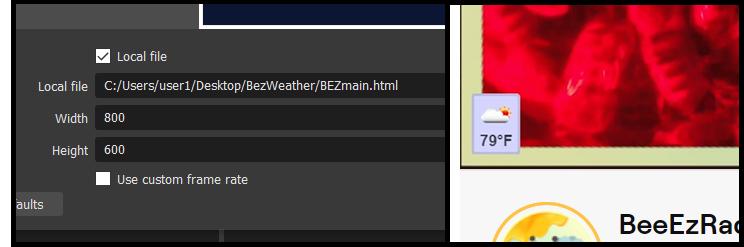
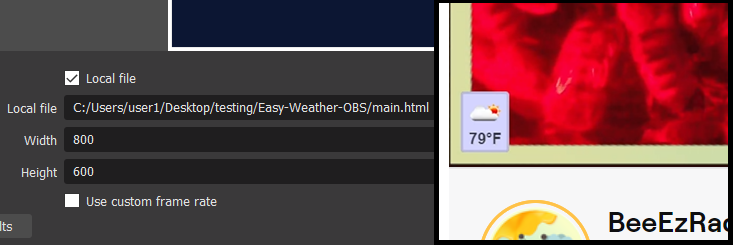
updated readme pics

diff --git a/README.md b/README.md
@@ -39,13 +39,16 @@ Download the ZIP for this app; click the Green button "<>Code" -> "Download Zip"
 
 Once you have your URL working; open "weather.js" in your code editor- then add your working weather URL to the code, pictured below - then Save <br>
 
+![2pic](./READMEpics/changeURL.png)
+
+
 if you want to LENGTHEN the timer; you can do so, but do not go LESS THAN "3*60000"! - then Save <br>
 
 Now, in the the folder, "Easy-Weather-OBS" double click the "main.html" file - it should open your browers, displaying the picture below. <br>
 
 Wait 3 minutes, and the App should be begin working...if you open your browser's Dev Tools, view the Console; and you should see these calls coming in every 3 minutes.
 
-![2pic](./READMEpics/initialResult.png)
+![3pic](./READMEpics/initialResult.png)
 
 === Add to OBS ===
 
@@ -55,6 +58,6 @@ Place whereever you'd like.
 
 -Poggers in the chat. 
 
-![3pic](./READMEpics/finalResult.png)
+![4pic](./READMEpics/finalResult.png)
 
 
